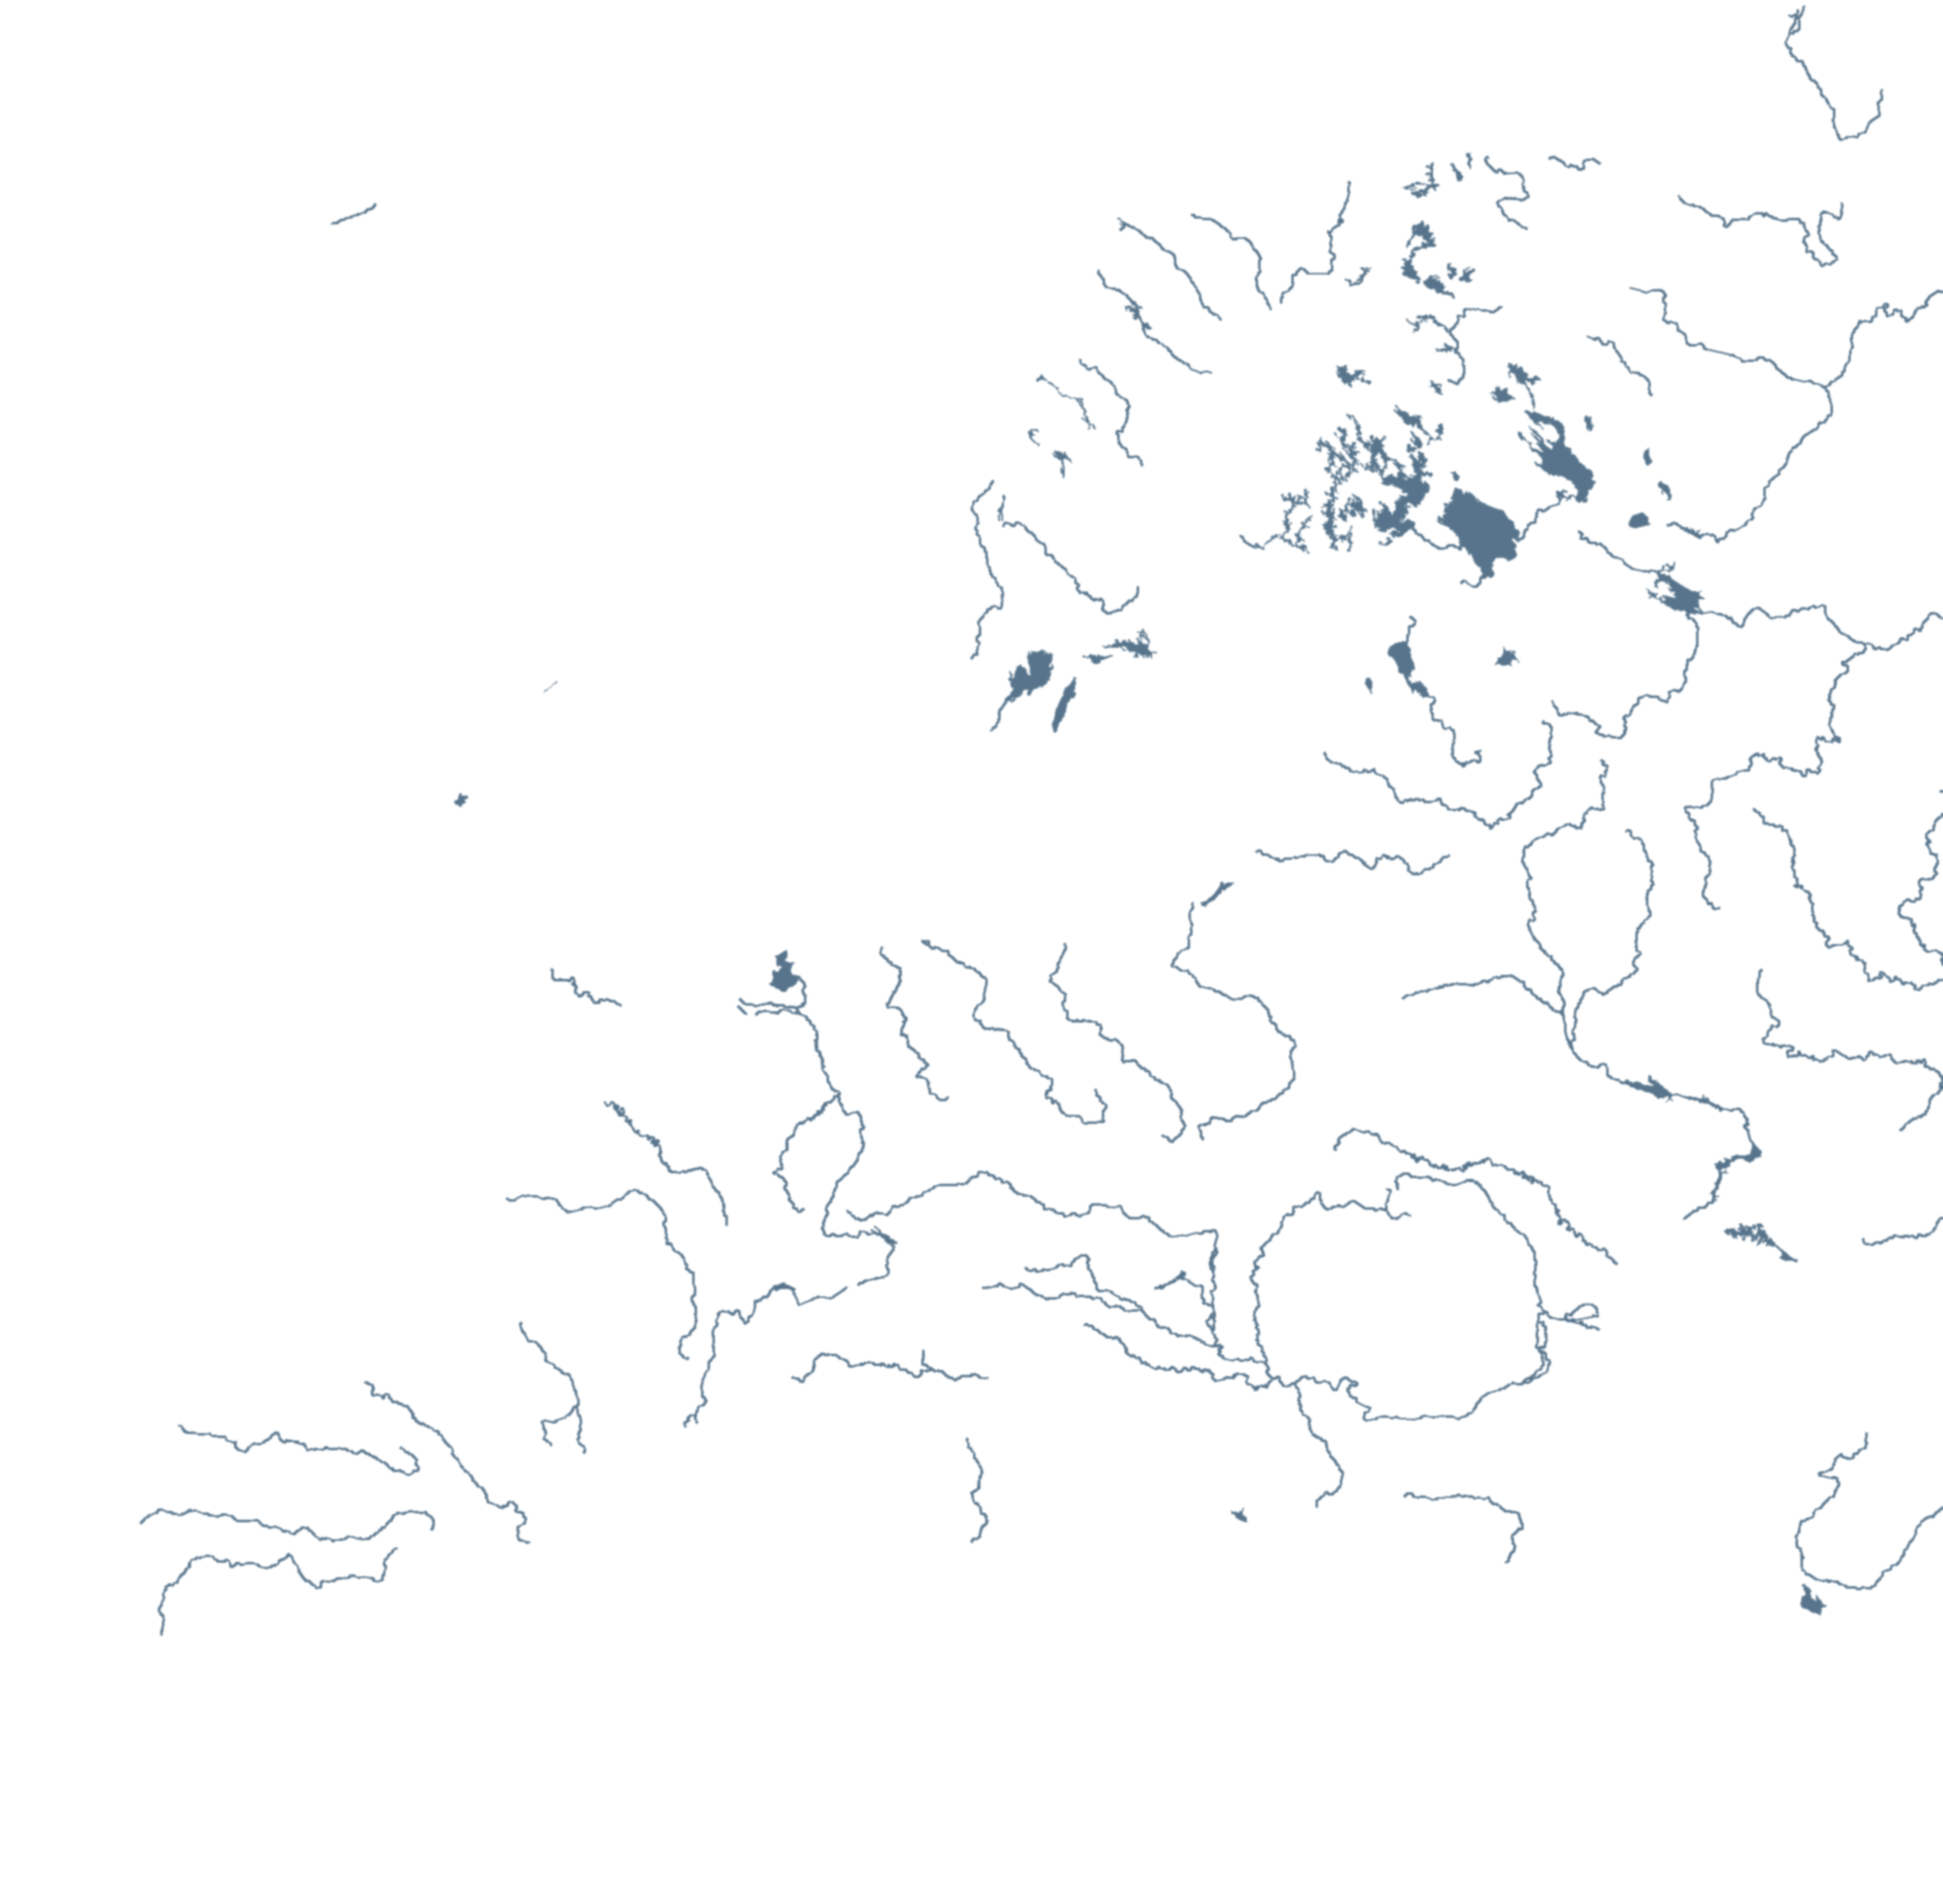
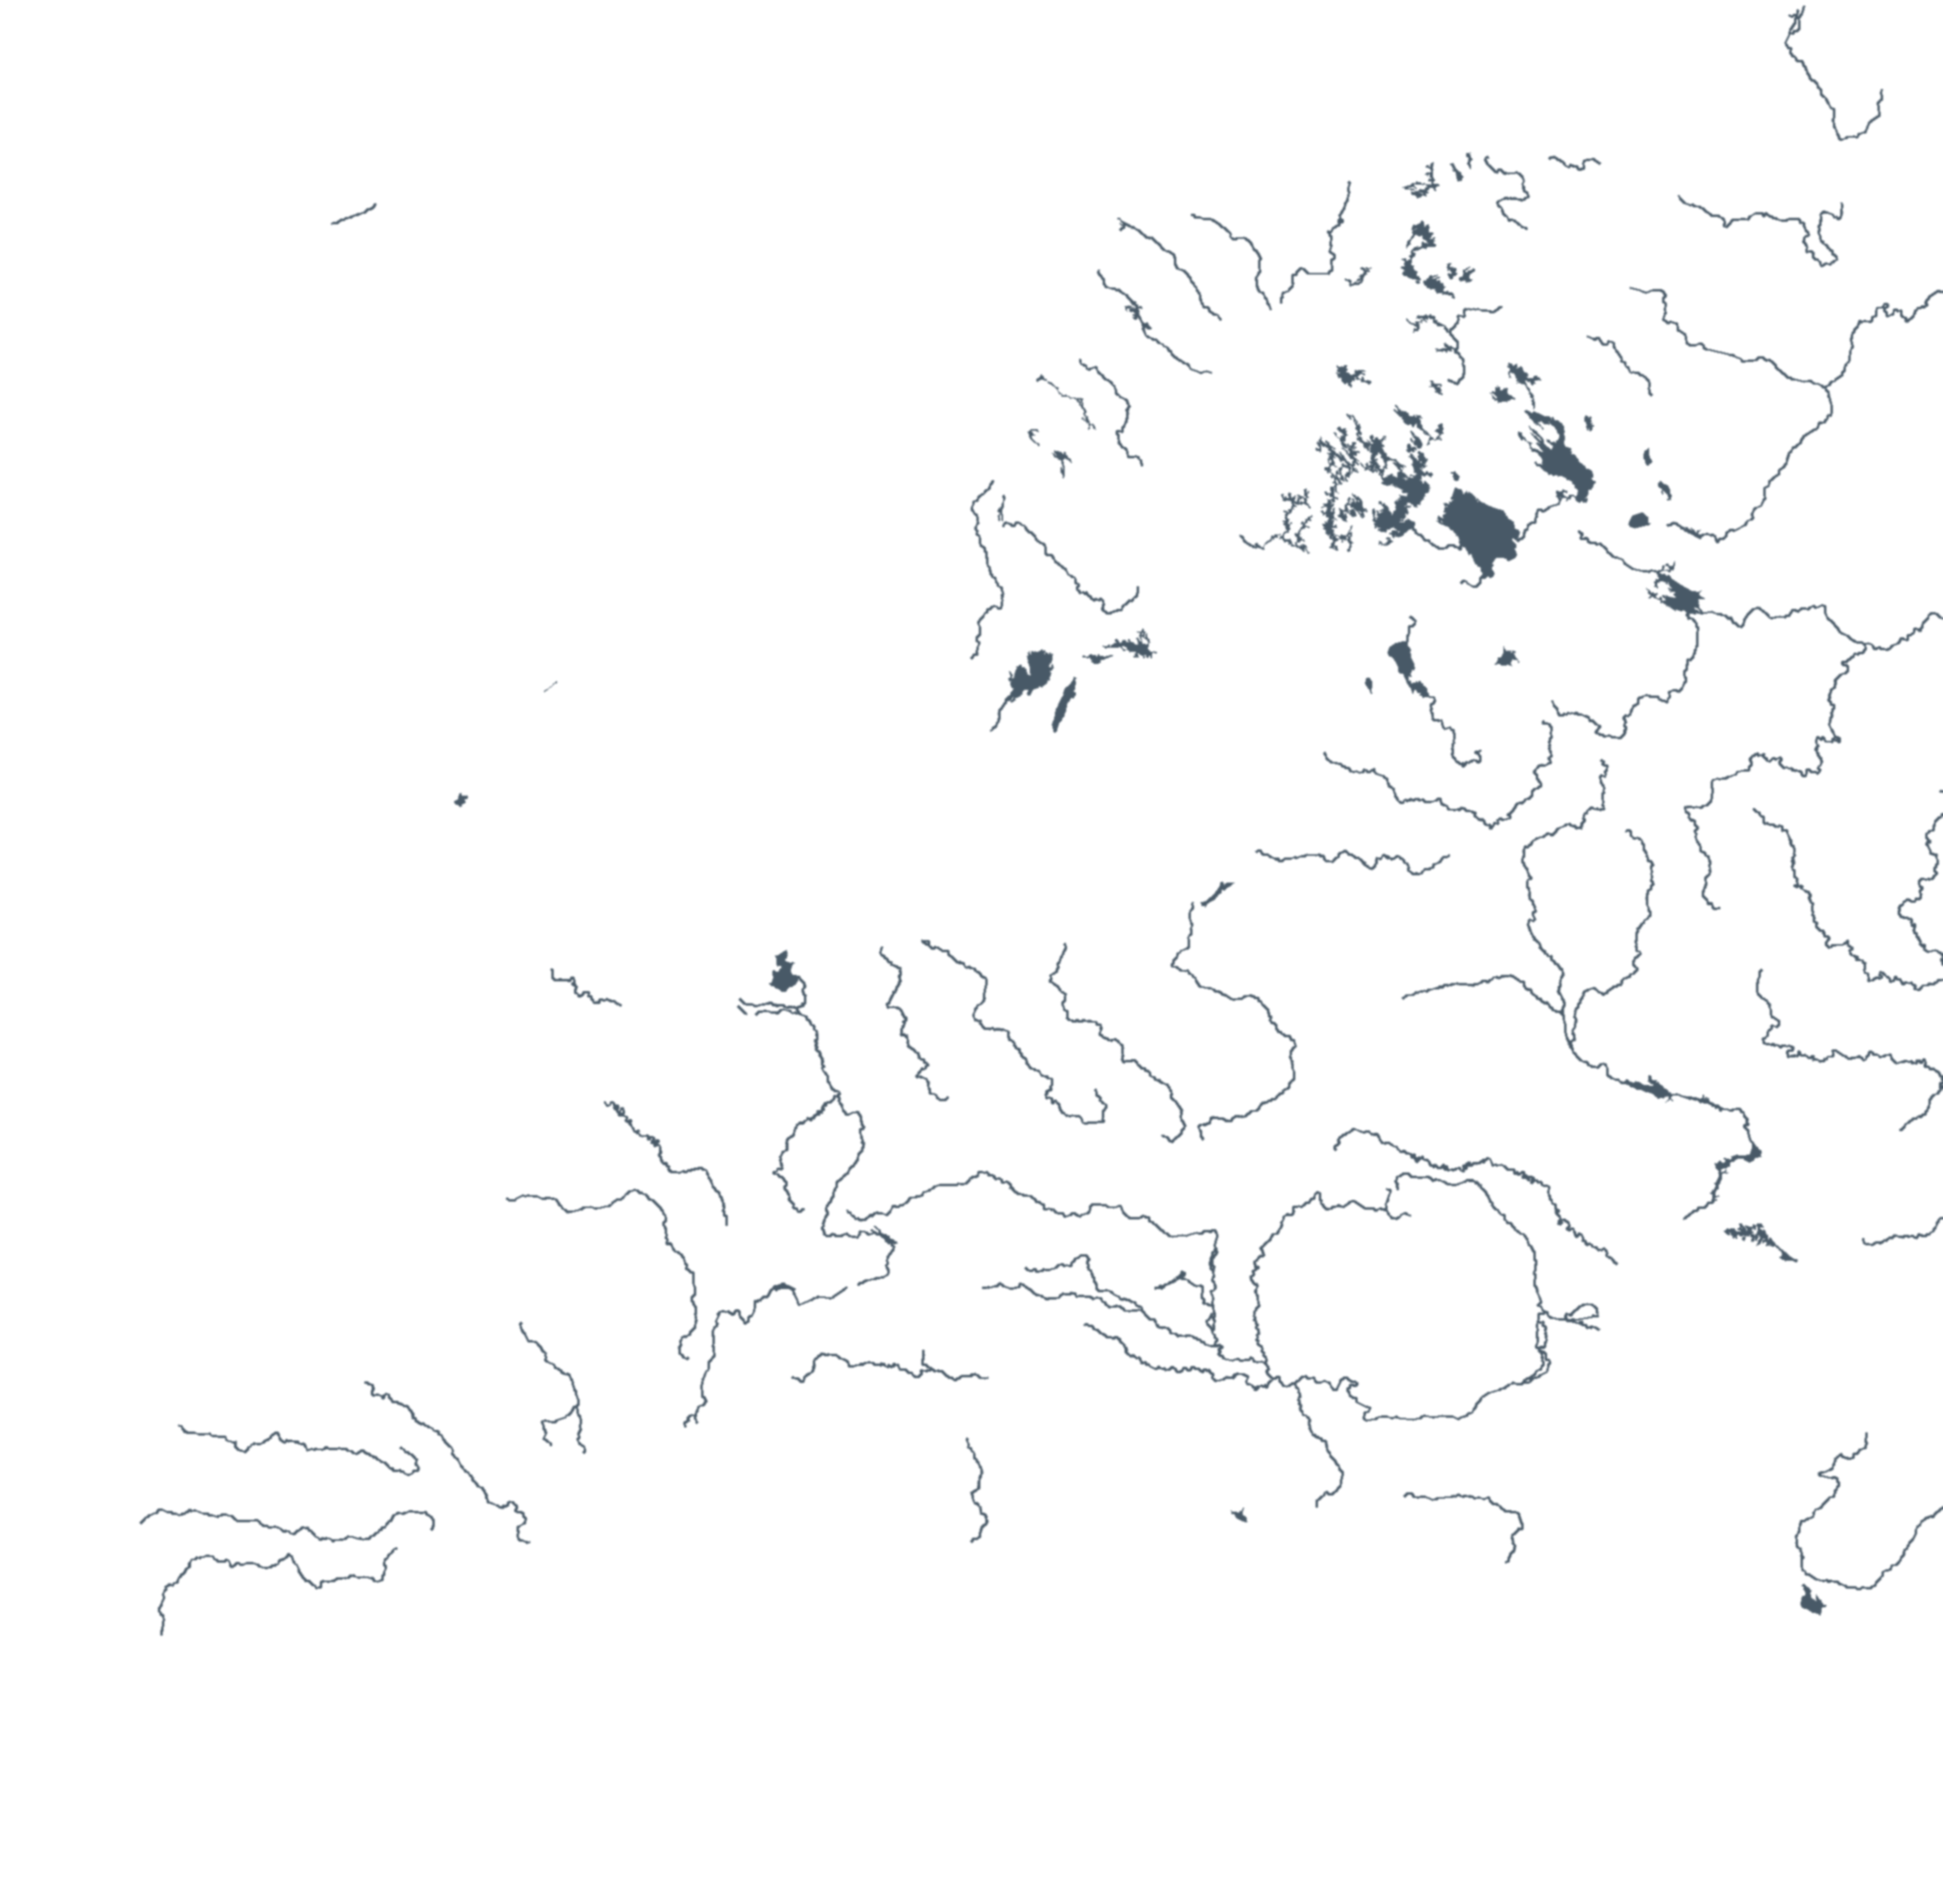
feat: calibrate Satellite-Hybrid Topo theme preset with natural water tones, lowland farmland tinting, and high-contrast tactical infrastructure

diff --git a/web/map-studio/index.html b/web/map-studio/index.html
@@ -134,7 +134,8 @@
       <div class="control-group">
         <div class="group-label">Color Theme Preset</div>
         <select id="preset-select">
-          <option value="tacticalDark">Tactical Dark (Default)</option>
+          <option value="satelliteTopo">Satellite Topo (Default)</option>
+          <option value="tacticalDark">Tactical Dark</option>
           <option value="vintageTopo">Vintage Topo</option>
           <option value="nordicSlate">Nordic Slate</option>
         </select>
@@ -195,8 +196,8 @@
         <div class="group-label">Opacity & Shading</div>
         
         <div class="slider-row">
-          <div class="slider-header"><span>Terrain Opacity</span><span id="val-terrain">65%</span></div>
-          <input type="range" id="slider-terrain" min="0" max="100" value="65">
+          <div class="slider-header"><span>Terrain Opacity</span><span id="val-terrain">70%</span></div>
+          <input type="range" id="slider-terrain" min="0" max="100" value="70">
         </div>
 
         <div class="slider-row">
@@ -215,8 +216,8 @@
         </div>
 
         <div class="slider-row">
-          <div class="slider-header"><span>Urban Footprint Opacity</span><span id="val-farmland">45%</span></div>
-          <input type="range" id="slider-farmland" min="0" max="100" value="45">
+          <div class="slider-header"><span>Urban Footprint Opacity</span><span id="val-farmland">35%</span></div>
+          <input type="range" id="slider-farmland" min="0" max="100" value="35">
         </div>
       </div>
 

diff --git a/web/map/theme-config.js b/web/map/theme-config.js
@@ -1,12 +1,37 @@
 /**
  * Map Engine Theme Configuration & Aesthetic Styling Tokens
- * Sourced & tuned for tactical rally aesthetics: high contrast, deep dark modes,
+ * Sourced & tuned for Satellite-Hybrid Topo aesthetics: high contrast, deep dark modes,
  * organic cartography tones, and crisp vector legibility.
  */
 
 export const THEME_PRESETS = {
+  satelliteTopo: {
+    name: 'Satellite Topo (Default)',
+    bg: '#0c1219',
+    water: '#102638',
+    land: '#181e26',
+    forest: 'rgba(20, 56, 35, 0.75)',
+    farmland: 'rgba(162, 137, 92, 0.35)',
+    meadow: 'rgba(58, 84, 45, 0.40)',
+    terrainOpacity: 0.70,
+    terrainBlend: 'multiply',
+    roadMotorway: '#d94b36',
+    roadTrunk: '#e6a13c',
+    roadPrimary: '#5f6f82',
+    roadSecondary: '#3e4a57',
+    roadWidthMotorway: 2.8,
+    roadWidthTrunk: 2.0,
+    roadWidthPrimary: 1.2,
+    cityNode: '#ffffff',
+    cityNodeBorder: '#0b0f17',
+    cityNodeActive: '#00f0ff',
+    routeLine: '#00f0ff',
+    routeLineGlow: 'rgba(0, 240, 255, 0.35)',
+    hudGlass: 'rgba(12, 18, 25, 0.85)',
+    hudText: '#e1e7ed',
+  },
   tacticalDark: {
-    name: 'Tactical Dark (Default)',
+    name: 'Tactical Dark',
     bg: '#0f141c',
     water: '#12283a',
     land: '#181e26',
@@ -83,7 +108,7 @@ export const THEME_PRESETS = {
 };
 
 export class MapTheme {
-  constructor(initialPreset = 'tacticalDark') {
+  constructor(initialPreset = 'satelliteTopo') {
     this.current = { ...THEME_PRESETS[initialPreset] };
   }
 

diff --git a/web/map-studio/studio.js b/web/map-studio/studio.js
@@ -42,7 +42,7 @@ const statTier = document.getElementById('stat-tier');
 presetSelect.addEventListener('change', (e) => {
   mapEngine.themeManager.loadPreset(e.target.value);
   const cur = mapEngine.themeManager.current;
-  sliderTerrain.value = Math.round((cur.terrainOpacity || 0.65) * 100);
+  sliderTerrain.value = Math.round((cur.terrainOpacity || 0.70) * 100);
   valTerrain.textContent = `${sliderTerrain.value}%`;
 });
 

diff --git a/scripts/10-water-raster.py b/scripts/10-water-raster.py
@@ -2,7 +2,7 @@
 
 Generates pixel-perfect raster water maps (`web/water.webp` and `web/water-detail.webp`)
 using the exact inverse Lambert Conformal Conic coordinate grid, 236 multi-segment river corridors,
-lakes, and Gaussian edge-feathering.
+lakes, and Gaussian edge-feathering tuned for satellite-hybrid aesthetics.
 
   python3 scripts/10-water-raster.py
 """
@@ -21,7 +21,7 @@ raw_map = json.loads((ROOT / 'web' / 'data.json').read_text())
 
 
 def render_water(box, out_w, out_h):
-    """Renders a clean, Gaussian-feathered raster water image."""
+    """Renders a clean, Gaussian-feathered raster water image tuned for satellite-hybrid topo looks."""
     # 1. Create 8-bit alpha mask canvas
     overlay = Image.new('L', (out_w, out_h), 0)
     draw = ImageDraw.Draw(overlay)
@@ -44,7 +44,7 @@ def render_water(box, out_w, out_h):
 
     # 3. Draw River Channels (All 236 sub-segments with flow-tapered widths)
     if 'rivers' in raw_map:
-        base_w = max(float(3.2 * (out_w / 2400.0)), 1.8)
+        base_w = max(float(3.0 * (out_w / 2400.0)), 1.8)
         for river_svg in raw_map['rivers']:
             sub_paths = [p.strip() for p in river_svg.split('M') if p.strip()]
             for sub in sub_paths:
@@ -60,17 +60,17 @@ def render_water(box, out_w, out_h):
     water_mask = np.asarray(overlay_blurred, dtype=np.float32) / 255.0
 
     # 5. Generate RGBA Water Image
-    # Organic River & Lake Blue: RGB(24, 64, 96)
+    # Deep Satellite Water Blue: RGB(16, 38, 56)
     rgba = np.zeros((out_h, out_w, 4), dtype=np.uint8)
-    rgba[..., 0] = 24  # Red
-    rgba[..., 1] = 64  # Green
-    rgba[..., 2] = 96  # Blue
-    rgba[..., 3] = (water_mask * 185.0).astype(np.uint8)  # 72% opacity for translucent hillshade depth
+    rgba[..., 0] = 16  # Red
+    rgba[..., 1] = 38  # Green
+    rgba[..., 2] = 56  # Blue
+    rgba[..., 3] = (water_mask * 195.0).astype(np.uint8)  # 76% opacity for translucent hillshade depth
 
     return rgba
 
 
-print("Generating clean Gaussian-softened Lambert raster water maps...")
+print("Generating satellite-hybrid Lambert raster water maps...")
 for name, out_w, quality in OUTPUTS:
     out_h = round(out_w * view['h'] / view['w'])
     img_rgba = render_water(view, out_w, out_h)
@@ -79,4 +79,4 @@ for name, out_w, quality in OUTPUTS:
     print(f'wrote {out.relative_to(ROOT)}  {out_w}x{out_h}  '
           f'{out.stat().st_size / 1024:.0f} KB')
 
-print("✓ Clean Gaussian-softened Lambert raster water maps generated successfully!")
+print("✓ Satellite-hybrid Lambert raster water maps generated successfully!")
